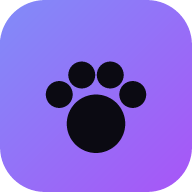
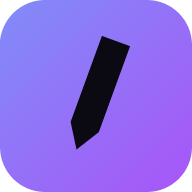
fix: tier-1 cost/security, real-time correctness, finish rebrand

Changed region(s): [[0.2188, 0.1875, 0.7812, 0.8125]]

diff --git a/packages/game-server/src/GameRoom.ts b/packages/game-server/src/GameRoom.ts
@@ -18,6 +18,10 @@ const MSG_LIMIT_PER_SEC = 200; // coarse per-connection flood guard
 // player from the game. Absorbs network blips so a reconnect is silent and keeps score/turn.
 const RECONNECT_GRACE_MS = 8000;
 
+// Hard ceiling on paid AI vision calls per room (its whole DO lifetime), so restarts can't run up
+// an unbounded bill. ~4 guesses/turn, so this covers dozens of turns before the AI goes quiet.
+const MAX_AI_CALLS_PER_ROOM = 240;
+
 // Map the client-asserted mode query param to a known mode (defaulting to classic). Keeping this
 // beside the DO ensures the label sent in `welcome` and the engine built in `makeMode` never diverge.
 function normalizeMode(name: string | null): GameModeName {
@@ -39,6 +43,7 @@ export class GameRoom {
   // pid -> pending "leave" timer. A dropped player sits here during the grace window; a reconnect
   // clears it (silent), the timer firing turns into an actual leave.
   private pendingLeaves = new Map<string, ReturnType<typeof setTimeout>>();
+  private aiCallCount = 0;
   private roomId = 'lobby';
   // The room's canonical mode, fixed by the first joiner (who creates the engine). Late joiners
   // are told this in `welcome`, not their own requested mode, so their UI label is correct.
@@ -138,20 +143,9 @@ export class GameRoom {
     // Reconnect overlap: another live socket already holds this id → the player didn't leave.
     if (this.findConn(conn.player.id)) return;
 
-    if (this.conns.size === 0) {
-      // Room emptied — reset so a future session starts clean (and free memory before eviction).
-      // Nothing to preserve for, and the isolate will evict once nobody's connected.
-      for (const t of this.pendingLeaves.values()) clearTimeout(t);
-      this.pendingLeaves.clear();
-      this.engine?.onPlayerLeave(conn.player.id);
-      this.engine = null;
-      this.strokes = [];
-      this.virtualPlayers.clear();
-      return;
-    }
-
-    // Others are still here: give this player a grace window to reconnect (a blip) before we drop
-    // them from the game and announce it. A reconnect within the window cancels this (see fetch).
+    // Give every leaver a grace window to reconnect before dropping them from the game — including a
+    // sole player (the common case in solo AI modes), whose blip previously tore the whole game down
+    // instantly and reset them to lobby. A reconnect within the window cancels this (see fetch).
     const { id, name } = conn.player;
     const existing = this.pendingLeaves.get(id);
     if (existing) clearTimeout(existing);
@@ -163,6 +157,12 @@ export class GameRoom {
         this.engine?.onPlayerLeave(id);
         this.broadcastPresence();
         this.broadcast({ type: 'system', text: `${name} left` });
+        // Room truly empty now (no live sockets, nobody else mid-grace): free it.
+        if (this.conns.size === 0 && this.pendingLeaves.size === 0) {
+          this.engine = null;
+          this.strokes = [];
+          this.virtualPlayers.clear();
+        }
       }, RECONNECT_GRACE_MS),
     );
   }
@@ -204,7 +204,13 @@ export class GameRoom {
   }
 
   private makeMode(name: GameModeName): GameMode {
-    const aiGuess = (): Promise<string> => requestAIGuess(this.env.AI_WORKER_URL, this.strokes);
+    // Hard per-room budget on paid AI calls so a single room (via "run it back" restarts) can't
+    // burn unbounded vision requests. Beyond it, the AI simply stops guessing.
+    const aiGuess = (): Promise<string> => {
+      if (this.aiCallCount >= MAX_AI_CALLS_PER_ROOM) return Promise.resolve('');
+      this.aiCallCount += 1;
+      return requestAIGuess(this.env.AI_WORKER_URL, this.env.AI_SHARED_SECRET, this.strokes);
+    };
     if (name === 'ai') return new AIGuesserMode(aiGuess);
     if (name === 'ai-drawer') return new AIDrawerMode();
     if (name === 'team-battle') return new TeamBattleMode(aiGuess);

diff --git a/packages/game-server/src/engine.ts b/packages/game-server/src/engine.ts
@@ -74,10 +74,18 @@ export class GameEngine {
     ) {
       this.deps.sendToPlayer(playerId, { type: "your_word", word: this.word });
     }
+    // If the drawer reconnects/refreshes mid-"choosing", re-send the options — otherwise their
+    // client lost them and they're stuck on "someone is picking…" (about themselves) until auto-pick.
+    if (this.phase === "choosing" && playerId === this.drawerId && this.pendingChoices) {
+      this.deps.sendToPlayer(playerId, { type: "word_choices", words: this.pendingChoices });
+    }
   }
 
   startGame(humanIds: string[]) {
-    if (this.phase === "playing" || this.phase === "intermission") return;
+    // Only start from a settled state. Without blocking "choosing" too, a double-click (the start
+    // button has no in-flight lock) fires two start_games: the first enters choosing, the second
+    // re-runs startGame and leaks the first choose-timer (which later fires a stray turn).
+    if (this.phase !== "lobby" && this.phase !== "ended") return;
     if (humanIds.length < this.mode.minHumans) {
       this.deps.broadcast({
         type: "system",
@@ -116,13 +124,26 @@ export class GameEngine {
   }
 
   onPlayerLeave(playerId: string) {
-    if (this.phase !== "playing") return;
-    if (playerId === this.drawerId) {
-      this.deps.broadcast({
-        type: "system",
-        text: "The drawer left — ending the turn.",
-      });
+    const wasDrawer = playerId === this.drawerId;
+    // Drop them from the roster (so guess thresholds + presence reflect who's actually here) and
+    // from the mode's draw rotation (so a future turn never picks an absent player).
+    this.roster.delete(playerId);
+    this.mode.onPlayerLeave?.(playerId, this.ctx);
+
+    // Nobody left to play — let the room teardown handle it; don't pick a phantom drawer.
+    if (this.roster.size === 0 || !wasDrawer) return;
+
+    if (this.phase === "playing") {
+      this.deps.broadcast({ type: "system", text: "the drawer left, ending the turn." });
       this.endTurn();
+    } else if (this.phase === "choosing") {
+      // They never picked a word — cancel the auto-pick and re-deal this turn to a present player.
+      if (this.chooseTimer) {
+        clearTimeout(this.chooseTimer);
+        this.chooseTimer = null;
+      }
+      this.deps.broadcast({ type: "system", text: "the drawer left before picking, re-dealing the turn." });
+      this.startTurn();
     }
   }
 
@@ -158,6 +179,7 @@ export class GameEngine {
     this.deps.sendToPlayer(drawerId, { type: "word_choices", words: choices });
     this.broadcastState();
 
+    if (this.chooseTimer) clearTimeout(this.chooseTimer); // never leak a prior choose-timer
     this.chooseTimer = setTimeout(() => {
       // Drawer didn't pick in time — choose at random for them.
       const pick = choices[Math.floor(Math.random() * choices.length)]!;

diff --git a/packages/client/src/App.tsx b/packages/client/src/App.tsx
@@ -262,7 +262,7 @@ export function App() {
       <div style={styles.gate}>
         <div className="glass pop-in" style={styles.card}>
           <div style={styles.brand}>
-            <span style={styles.brandMark}>🐶</span>
+            <span style={styles.brandMark}>✏</span>
             <div>
               <h1 className="grad-anim" style={styles.title}>iguess</h1>
               <p key={tagIdx} className="pop-in" style={styles.subtitle}>
@@ -469,9 +469,9 @@ function Room({ name, room, mode }: { name: string; room: string; mode: string }
       ? "✏ YOUR TURN · iguess"
       : inGame
       ? "🎨 playing · iguess"
-      : "iguess 🐶";
+      : "iguess ✏";
     return () => {
-      document.title = "iguess 🐶";
+      document.title = "iguess ✏";
     };
   }, [canDraw, inGame]);
 
@@ -599,7 +599,7 @@ function Room({ name, room, mode }: { name: string; room: string; mode: string }
     ].filter(Boolean);
 
     return [
-      `iguess 🐶 · ${modeMeta?.label ?? effectiveMode}`,
+      `iguess ✏ · ${modeMeta?.label ?? effectiveMode}`,
       `i came #${place || "?"}/${ranked.length} and that's on periodt`,
       "",
       ...rows,
@@ -634,7 +634,7 @@ function Room({ name, room, mode }: { name: string; room: string; mode: string }
       {/* ---- Sidebar: roster + scores ---- */}
       <aside className="glass" style={styles.sidebar}>
         <div style={styles.roomHead}>
-          <span style={styles.roomMark}>🐶</span>
+          <span style={styles.roomMark}>✏</span>
           <div style={{ minWidth: 0 }}>
             <div className="grad-anim" style={styles.roomName}>#{room}</div>
             <div style={styles.roomMode}>

diff --git a/packages/client/index.html b/packages/client/index.html
@@ -12,14 +12,14 @@
     <meta name="description" content="probably not. draw it anyway. real-time multiplayer drawing & guessing vs an AI that thinks it ate." />
     <meta property="og:type" content="website" />
     <meta property="og:url" content="https://iguess.aidenjang.com/" />
-    <meta property="og:title" content="iguess 🐶" />
+    <meta property="og:title" content="iguess ✏" />
     <meta property="og:description" content="draw bad, win anyway. multiplayer scribble game where you race a bot. pull up." />
     <meta property="og:image" content="https://iguess.aidenjang.com/og.png" />
     <meta property="og:image:type" content="image/png" />
     <meta property="og:image:width" content="1200" />
     <meta property="og:image:height" content="630" />
     <meta name="twitter:card" content="summary_large_image" />
-    <meta name="twitter:title" content="iguess 🐶" />
+    <meta name="twitter:title" content="iguess ✏" />
     <meta name="twitter:description" content="draw bad, win anyway. race the bot. pull up." />
     <meta name="twitter:image" content="https://iguess.aidenjang.com/og.png" />
     <link rel="preconnect" href="https://fonts.googleapis.com" />

diff --git a/packages/game-server/src/services/aiWorkerClient.ts b/packages/game-server/src/services/aiWorkerClient.ts
@@ -6,14 +6,21 @@ const TIMEOUT_MS = 8_000;
 // resolves to "" so the game never stalls. A GENUINE failure (worker down, timeout, bad response)
 // THROWS, so callers can tell "the AI is unreachable" apart from "the AI had no guess" and surface
 // it once to players. The base URL is passed in (from the room's env), since this runs on Workers.
-export async function requestAIGuess(baseUrl: string | undefined, ops: DrawOp[]): Promise<string> {
+export async function requestAIGuess(
+  baseUrl: string | undefined,
+  secret: string | undefined,
+  ops: DrawOp[],
+): Promise<string> {
   if (!baseUrl || ops.length === 0) return ''; // nothing to ask — not a failure
   const controller = new AbortController();
   const t = setTimeout(() => controller.abort(), TIMEOUT_MS);
   try {
     const res = await fetch(`${baseUrl}/guess`, {
       method: 'POST',
-      headers: { 'Content-Type': 'application/json' },
+      headers: {
+        'Content-Type': 'application/json',
+        ...(secret ? { Authorization: `Bearer ${secret}` } : {}),
+      },
       body: JSON.stringify({ ops }),
       signal: controller.signal,
     });

diff --git a/packages/ai-worker/src/worker.ts b/packages/ai-worker/src/worker.ts
@@ -15,6 +15,11 @@ export default {
     }
 
     if (url.pathname === '/guess' && request.method === 'POST') {
+      // When a shared secret is configured, require it — otherwise this paid vision endpoint is
+      // open to anyone who learns the URL and can burn tokens directly.
+      if (env.AI_SHARED_SECRET && request.headers.get('Authorization') !== `Bearer ${env.AI_SHARED_SECRET}`) {
+        return Response.json({ guess: '', error: 'unauthorized' }, { status: 401 });
+      }
       const body = (await request.json().catch(() => null)) as { ops?: DrawOp[] } | null;
       const ops = Array.isArray(body?.ops) ? body.ops : [];
       if (ops.length === 0) return Response.json({ guess: '', provider: provider.name });

diff --git a/packages/game-server/src/modes/ClassicMode.ts b/packages/game-server/src/modes/ClassicMode.ts
@@ -45,6 +45,11 @@ export class ClassicMode implements GameMode {
     return this.drawOrder[turnIndex % this.drawOrder.length];
   }
 
+  onPlayerLeave(playerId: string, _ctx: EngineContext): void {
+    // Drop them from the rotation so pickDrawer never selects an absent player (a blank dead turn).
+    this.drawOrder = this.drawOrder.filter((id) => id !== playerId);
+  }
+
   pickWord(_ctx: EngineContext): string {
     const word = this.freshWord();
     this.usedWords.add(word);

diff --git a/packages/game-server/src/modes/GameMode.ts b/packages/game-server/src/modes/GameMode.ts
@@ -109,4 +109,8 @@ export interface GameMode {
 
   // Optional: game fully over.
   onGameEnd?(ctx: EngineContext): void;
+
+  // Optional: a player left mid-game. The mode should drop them from any rotation/order it holds
+  // (e.g. the draw order), so a later turn never picks an absent player and runs a blank turn.
+  onPlayerLeave?(playerId: string, ctx: EngineContext): void;
 }

diff --git a/packages/ai-worker/src/env.ts b/packages/ai-worker/src/env.ts
@@ -6,4 +6,7 @@ export interface Env {
   ANTHROPIC_API_KEY?: string;
   OPENAI_MODEL?: string;
   ANTHROPIC_MODEL?: string;
+  // Shared secret the game-server must present on /guess. When set, unauthenticated calls are
+  // rejected so the (paid) vision endpoint can't be hit directly. Unset ⇒ open (dev/mock).
+  AI_SHARED_SECRET?: string;
 }

diff --git a/packages/game-server/src/env.ts b/packages/game-server/src/env.ts
@@ -6,4 +6,6 @@ export interface Env {
   ASSETS: Fetcher;
   // Base URL of the ai-worker (guess/draw). Unset = AI features are skipped gracefully.
   AI_WORKER_URL?: string;
+  // Shared secret presented to the ai-worker so its paid /guess endpoint can reject direct hits.
+  AI_SHARED_SECRET?: string;
 }

diff --git a/packages/client/public/sw.js b/packages/client/public/sw.js
@@ -4,7 +4,7 @@
 
 // Bump this on any sw.js change: the activate handler deletes every cache that isn't the current
 // one, so a version bump purges stale entries on update.
-const CACHE = 'is-it-a-dog-v2';
+const CACHE = 'iguess-v3';
 const SHELL = '/';
 
 self.addEventListener('install', (event) => {
